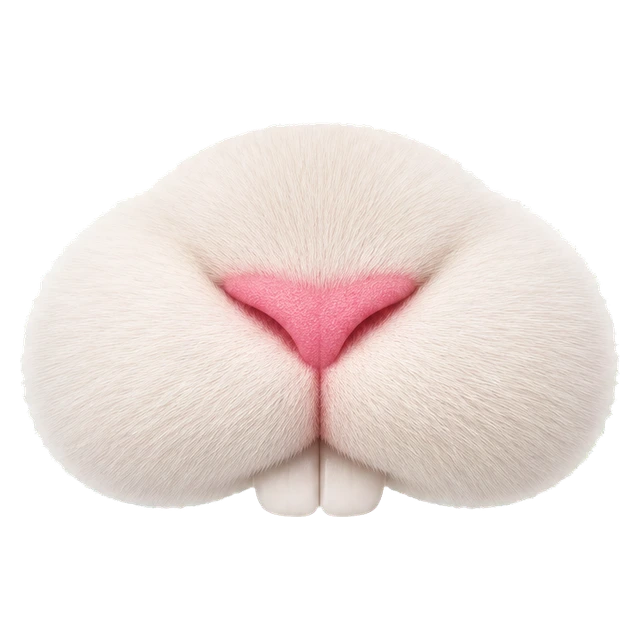
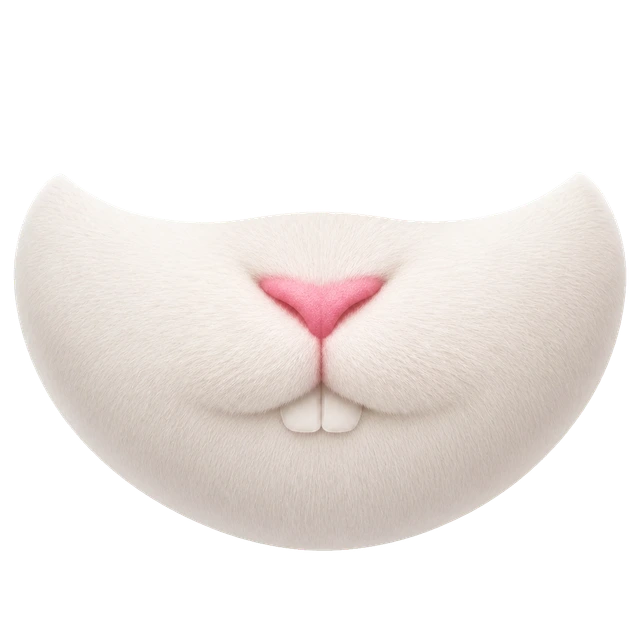
feat: standardize privacy coverage for animal camera effects

Changed region(s): [[0.0, 0.1875, 1.0, 0.875]]

diff --git a/src/app/components/WorkroomCameraSetup.tsx b/src/app/components/WorkroomCameraSetup.tsx
@@ -99,10 +99,10 @@ export default function WorkroomCameraSetup({
   const enteringMessages: Record<CameraEffect, string> = {
     original: "현재 원본 화면으로 입장합니다.",
     "background-blur": "현재 배경 흐림 화면으로 입장합니다.",
-    cat: "고양이 효과로 입장합니다. 눈과 자세는 그대로 보입니다.",
-    dog: "강아지 효과로 입장합니다. 눈과 자세는 그대로 보입니다.",
-    bear: "곰 효과로 입장합니다. 눈과 자세는 그대로 보입니다.",
-    bunny: "토끼 효과로 입장합니다. 눈과 자세는 그대로 보입니다.",
+    cat: "고양이 효과로 코와 입을 가립니다. 눈과 자세는 그대로 보입니다.",
+    dog: "강아지 효과로 코와 입을 가립니다. 눈과 자세는 그대로 보입니다.",
+    bear: "곰 효과로 코와 입을 가립니다. 눈과 자세는 그대로 보입니다.",
+    bunny: "토끼 효과로 코와 입을 가립니다. 눈과 자세는 그대로 보입니다.",
     fox: "여우 효과로 코와 입을 가립니다. 눈과 자세는 그대로 보입니다.",
   };
 
@@ -188,28 +188,28 @@ export default function WorkroomCameraSetup({
                 {renderEffect(
                   "cat",
                   "고양이",
-                  "리얼 귀·코와 피부 톤",
+                  "리얼 하관 커버와 뷰티 톤",
                   <span aria-hidden="true">🐱</span>,
                   "is-character is-cat",
                 )}
                 {renderEffect(
                   "dog",
                   "강아지",
-                  "리얼 귀·코와 피부 톤",
+                  "리얼 하관 커버와 뷰티 톤",
                   <span aria-hidden="true">🐶</span>,
                   "is-character is-dog",
                 )}
                 {renderEffect(
                   "bear",
                   "곰",
-                  "리얼 귀·코와 뷰티 톤",
+                  "리얼 하관 커버와 뷰티 톤",
                   <span aria-hidden="true">🐻</span>,
                   "is-character is-bear",
                 )}
                 {renderEffect(
                   "bunny",
                   "토끼",
-                  "리얼 귀·코와 뷰티 톤",
+                  "리얼 하관 커버와 뷰티 톤",
                   <span aria-hidden="true">🐰</span>,
                   "is-character is-bunny",
                 )}

diff --git a/src/app/utils/animal-effects/cat-effect-renderer.ts b/src/app/utils/animal-effects/cat-effect-renderer.ts
@@ -54,7 +54,7 @@ export class CatEffectRenderer {
       this.drawAssetBlush(context, pose);
       this.drawFaceGlitter(context, pose);
       this.drawAssetEars(context, pose, this.assets.ear);
-      this.drawAssetMuzzle(context, pose, this.assets.muzzle);
+      this.drawPrivacyMuzzle(context, pose, this.assets.muzzle);
       this.drawAssetWhiskers(context, pose);
       return;
     }
@@ -145,23 +145,23 @@ export class CatEffectRenderer {
     }
   }
 
-  private drawAssetMuzzle(
+  private drawPrivacyMuzzle(
     context: DrawingContext,
     pose: FacePose,
     image: CanvasImageSource,
   ) {
-    const size = pose.width * 0.52;
-    const yawScale = clamp(1 - Math.abs(pose.yaw) * 0.15, 0.84, 1);
+    const size = pose.width * 1.08;
+    const yawScale = clamp(1 - Math.abs(pose.yaw) * 0.12, 0.88, 1);
 
     context.save();
-    context.translate(pose.noseX, pose.noseY + pose.height * 0.025);
+    context.translate(pose.noseX, pose.noseY + pose.height * 0.015);
     context.rotate(pose.roll);
     context.scale(yawScale, 1);
-    context.globalAlpha = 0.97;
-    context.shadowColor = "rgba(60, 39, 35, 0.16)";
-    context.shadowBlur = Math.max(2, pose.width * 0.012);
-    context.shadowOffsetY = Math.max(1, pose.width * 0.006);
-    context.drawImage(image, -size * 0.5, -size * 0.43, size, size);
+    context.globalAlpha = 0.99;
+    context.shadowColor = "rgba(66, 43, 36, 0.18)";
+    context.shadowBlur = Math.max(3, pose.width * 0.016);
+    context.shadowOffsetY = Math.max(1, pose.width * 0.008);
+    context.drawImage(image, -size * 0.5, -size * 0.37, size, size);
     context.restore();
   }
 

diff --git a/src/app/utils/animal-effects/bunny-effect-renderer.ts b/src/app/utils/animal-effects/bunny-effect-renderer.ts
@@ -44,7 +44,7 @@ export class BunnyEffectRenderer {
     this.drawBlush(context, pose);
     this.drawGlitter(context, pose);
     this.drawEars(context, pose, this.assets.ear);
-    this.drawMuzzle(context, pose, this.assets.muzzle);
+    this.drawPrivacyMuzzle(context, pose, this.assets.muzzle);
     return true;
   }
 
@@ -95,22 +95,22 @@ export class BunnyEffectRenderer {
     }
   }
 
-  private drawMuzzle(
+  private drawPrivacyMuzzle(
     context: DrawingContext,
     pose: FacePose,
     image: CanvasImageSource,
   ) {
-    const size = pose.width * 0.62;
-    const yawScale = clamp(1 - Math.abs(pose.yaw) * 0.14, 0.86, 1);
+    const size = pose.width * 1.08;
+    const yawScale = clamp(1 - Math.abs(pose.yaw) * 0.12, 0.88, 1);
 
     context.save();
-    context.translate(pose.noseX, pose.noseY + pose.height * 0.028);
+    context.translate(pose.noseX, pose.noseY + pose.height * 0.015);
     context.rotate(pose.roll);
     context.scale(yawScale, 1);
-    context.globalAlpha = 0.97;
-    context.shadowColor = "rgba(78, 47, 55, 0.16)";
-    context.shadowBlur = Math.max(2, pose.width * 0.013);
-    context.shadowOffsetY = Math.max(1, pose.width * 0.006);
+    context.globalAlpha = 0.99;
+    context.shadowColor = "rgba(78, 47, 55, 0.17)";
+    context.shadowBlur = Math.max(3, pose.width * 0.016);
+    context.shadowOffsetY = Math.max(1, pose.width * 0.008);
     context.drawImage(image, -size * 0.5, -size * 0.45, size, size);
     context.restore();
   }

diff --git a/src/app/utils/animal-effects/bear-effect-renderer.ts b/src/app/utils/animal-effects/bear-effect-renderer.ts
@@ -44,7 +44,7 @@ export class BearEffectRenderer {
     this.drawBlush(context, pose);
     this.drawGlitter(context, pose);
     this.drawEars(context, pose, this.assets.ear);
-    this.drawMuzzle(context, pose, this.assets.muzzle);
+    this.drawPrivacyMuzzle(context, pose, this.assets.muzzle);
     return true;
   }
 
@@ -95,23 +95,23 @@ export class BearEffectRenderer {
     }
   }
 
-  private drawMuzzle(
+  private drawPrivacyMuzzle(
     context: DrawingContext,
     pose: FacePose,
     image: CanvasImageSource,
   ) {
-    const size = pose.width * 0.64;
-    const yawScale = clamp(1 - Math.abs(pose.yaw) * 0.14, 0.86, 1);
+    const size = pose.width * 1.08;
+    const yawScale = clamp(1 - Math.abs(pose.yaw) * 0.12, 0.88, 1);
 
     context.save();
-    context.translate(pose.noseX, pose.noseY + pose.height * 0.035);
+    context.translate(pose.noseX, pose.noseY + pose.height * 0.015);
     context.rotate(pose.roll);
     context.scale(yawScale, 1);
-    context.globalAlpha = 0.98;
+    context.globalAlpha = 0.99;
     context.shadowColor = "rgba(43, 27, 20, 0.2)";
-    context.shadowBlur = Math.max(3, pose.width * 0.016);
+    context.shadowBlur = Math.max(3, pose.width * 0.018);
     context.shadowOffsetY = Math.max(1, pose.width * 0.008);
-    context.drawImage(image, -size * 0.5, -size * 0.43, size, size);
+    context.drawImage(image, -size * 0.5, -size * 0.36, size, size);
     context.restore();
   }
 

diff --git a/src/app/utils/dog-effect-renderer.ts b/src/app/utils/dog-effect-renderer.ts
@@ -39,7 +39,7 @@ export class DogEffectRenderer {
     this.drawBlush(context, pose);
     this.drawGlitter(context, pose);
     this.drawEars(context, pose, this.assets.ear);
-    this.drawMuzzle(context, pose, this.assets.muzzle);
+    this.drawPrivacyMuzzle(context, pose, this.assets.muzzle);
     return true;
   }
 
@@ -97,23 +97,23 @@ export class DogEffectRenderer {
     }
   }
 
-  private drawMuzzle(
+  private drawPrivacyMuzzle(
     context: DrawingContext,
     pose: FacePose,
     image: CanvasImageSource,
   ) {
-    const size = pose.width * 0.9;
-    const yawScale = Math.max(0.82, 1 - Math.abs(pose.yaw) * 0.16);
+    const size = pose.width * 1.08;
+    const yawScale = Math.max(0.88, 1 - Math.abs(pose.yaw) * 0.12);
 
     context.save();
-    context.translate(pose.noseX, pose.noseY);
+    context.translate(pose.noseX, pose.noseY + pose.height * 0.015);
     context.rotate(pose.roll);
     context.scale(yawScale, 1);
-    context.globalAlpha = 0.98;
-    context.shadowColor = "rgba(31, 22, 20, 0.2)";
+    context.globalAlpha = 0.99;
+    context.shadowColor = "rgba(58, 31, 18, 0.2)";
     context.shadowBlur = Math.max(3, pose.width * 0.018);
     context.shadowOffsetY = Math.max(1, pose.width * 0.008);
-    context.drawImage(image, -size * 0.5, -size * 0.4, size, size);
+    context.drawImage(image, -size * 0.5, -size * 0.37, size, size);
     context.restore();
   }
 
